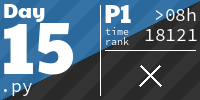
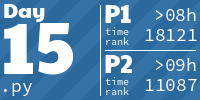
solve 2024 day 15 part 2

diff --git a/2024/15.py b/2024/15.py
@@ -1,91 +1,188 @@
+from time import sleep
 print(chr(27)+'[2j')
 print('\033c')
 f = open('15.test', 'r')
 f = open('15.test2', 'r')
+#f = open('15.test3', 'r')
 f = open('15.input', 'r')
 grid, steps = f.read().split('\n\n')
 steps = ''.join([x.strip() for x in steps])
 
-g = {}
-w = 0
-h = 0
-p = (0,0)
-for y, line in enumerate(grid.split('\n')):
-    for x, c in enumerate(line):
-        g[(x,y)] = c
-        h = max(h, y+1)
-        w = max(w, x+1)
-        if c == '@':
-            p = (x,y)
+def fresh():
+    print("\033[H\033[J", end="")  # Clear screen and move cursor
 
-def print_map(g, w, h):
-    for y in range(h):
-        line = ''
-        for x in range(w):
-            line += g[(x,y)]
-        print(line)
+RED = "\033[31m"
+BLUE = "\033[36m"
+RESET = "\033[0m"
+BG = "\033[101m"
 
-def move(g, p, d):
-    print(f'Move: {p}')
-    x,y = p 
-    dx,dy = d
-    swap: list[tuple[int,int]] = [p]
-    nx,ny = x,y
-    while True:
-        print(f'--- {p} ({d})')
-        nx,ny = nx+dx, ny+dy
-        print(nx,ny)
-        print('Map:', g[(nx,ny)])
-        if g[(nx,ny)] == '#': 
-            print('BREAK')
-            # break function
-            return g, p 
-        elif g[(nx,ny)] == 'O':
-            print('TOSWAP')
-            swap.append((nx,ny))
-        elif g[(nx,ny)] == '.': 
-            print('CANSWAP')
-            # Continue after function
-            break
-        else: 
-            print('ERROR', g[(nx,ny)])
-
-    swap.reverse()
-    for s in swap:
-        xs, ys = s
-        nx,ny = xs+dx, ys+dy
-        g[(nx,ny)] = g[(xs, ys)]
-
-    g[(x,y)] = '.'
-    p = x+dx, y+dy
-
-    return g, p
-
-print_map(g,w,h)
-print(steps)
-print(p)
 D = [(0,-1), (1,0), (0,1), (-1,0)]
 ds = '^>v<'
 
-for i, s in enumerate(steps): 
-    print(f'============== ROUND {s} ({i})')
-    #print_map(g,w,h)
-    d = D[ds.index(s)]
-    print(s, d)
-    g, p = move(g, p, d)
+def parse(grid):
+    g = {}
+    w = 0
+    h = 0
+    p = (0,0)
+    for y, line in enumerate(grid):
+        for x, c in enumerate(line):
+            g[(x,y)] = c
+            h = max(h, y+1)
+            w = max(w, x+1)
+            if c == '@':
+                p = (x,y)
+    return g,w,h,p
 
-
-print('FINISH ============')
-print_map(g,w,h)
+def print_map(g, w, h, s='@'):
+    for y in range(h):
+        line = ''
+        for x in range(w):
+            c = g[(x,y)]
+            if c == '@':
+                line += BG + s + RESET
+            elif c in 'O[]':
+                line += BLUE + c + RESET
+            elif c == '#':
+                line += RED + c + RESET
+            else:
+                line += g[(x,y)]
+        print(line)
 
 def get_score(g, w, h):
     s = 0
     for y in range(h):
         for x in range(w):
-            if g[(x,y)] != 'O':
+            if g[(x,y)] not in 'O[':
                 continue
             s += y * 100 + x
     return s
 
-score = get_score(g,w,h)
-print(f'Score is: {score}')
+
+def move(g, p, d):
+    x,y = p 
+    dx,dy = d
+    swap: list[tuple[int,int]] = [p]
+    nx,ny = x,y
+    while True:
+        nx,ny = nx+dx, ny+dy
+        if g[(nx,ny)] == '#': 
+            return g, p 
+        elif g[(nx,ny)] == 'O':
+            swap.append((nx,ny))
+        elif g[(nx,ny)] == '.': 
+            break
+        else: 
+            exit(1)
+    swap.reverse()
+    for s in swap:
+        xs, ys = s
+        nx,ny = xs+dx, ys+dy
+        g[(nx,ny)] = g[(xs, ys)]
+    g[(x,y)] = '.'
+    np = x+dx, y+dy
+    return g, np
+
+def part1():
+    g,w,h,p = parse(grid.split('\n'))
+    for i, s in enumerate(steps): 
+        #print(f'============== ROUND {s} ({i+1})')
+        d = D[ds.index(s)]
+        g, p = move(g, p, d)
+        #print_map(g,w,h)
+
+    print('FINISH ============')
+    print_map(g,w,h, '@')
+
+    score = get_score(g,w,h)
+    return score
+
+def widen(grid):
+    lines = []
+    for row in grid: 
+        line = ''
+        for col in row:
+            if col == '#':
+                line += '##'
+            if col == 'O':
+                line += '[]'
+            if col == '.':
+                line += '..'
+            if col == '@':
+                line += '@.'
+        lines.append(line)
+    return lines
+
+def part2():
+    wide_grid = widen(grid.split('\n'))
+    g,w,h,p = parse(wide_grid)
+    #print('Initial state: ')
+    #print_map(g,w,h, '@')
+    every = 1000
+    for i, s in enumerate(steps): 
+        if i % every == 0:
+            fresh()
+            print(f'.............. ROUND {s} ({i+1})')
+        d = D[ds.index(s)]
+        g, p = move2(g, p, d)
+        if i % every == 0:
+            print_map(g,w,h, s)
+            sleep(0.3)
+
+    print('FINISH ============')
+
+    score = get_score(g,w,h)
+    return score
+
+def vertical(d):
+    dx, _ = d
+    return dx == 0
+
+def move2(g, p, d):
+    x,y = p 
+    dx,dy = d
+    swap: list[tuple[int,int]] = [p]
+    pushes = [(x,y)]
+    while True:
+        can_move = 0
+        while pushes:
+            nx,ny = pushes.pop(0)
+            x2,y2 = nx+dx, ny+dy
+            c = g[(x2,y2)]
+            if c == '#': 
+                return g, p 
+            elif c in 'O[]':
+                if vertical(d) and c == '[':
+                    pushes.append((x2+1,y2))
+                    swap.append((x2+1,y2))
+                if vertical(d) and c == ']':
+                    pushes.append((x2-1,y2))
+                    swap.append((x2-1,y2))
+                pushes.append((x2,y2))
+                swap.append((x2,y2))
+            elif g[(nx,ny)] == '.': 
+                can_move += 1
+
+        if can_move == len(pushes):
+            break
+    # print('swap', swap)
+    swap.reverse()
+    to_add = []
+    for s in swap:
+        xs, ys = s
+        nx,ny = xs+dx, ys+dy
+        to_add.append((nx,ny,g[(xs, ys)]))
+    for s in swap:
+        xs, ys = s
+        nx,ny = xs+dx, ys+dy
+        g[(xs, ys)] = '.'
+    for (x1,y1,c) in to_add:
+        g[(x1,y1)] = c 
+
+    np = x+dx, y+dy
+    return g, np
+
+
+score1= part1()
+score2 = part2()
+print(f'Solution part1: {score1}')
+print(f'Solution part2: {score2}')

diff --git a/README.md b/README.md
@@ -2,7 +2,7 @@
 
 <!-- AOC TILES BEGIN -->
 <h1 align="center">
-  2024 - 29 ⭐
+  2024 - 30 ⭐
 </h1>
 <a href="2024/01.ex">
   <img src=".aoc_tiles/tiles/2024/01.png" width="161px">
